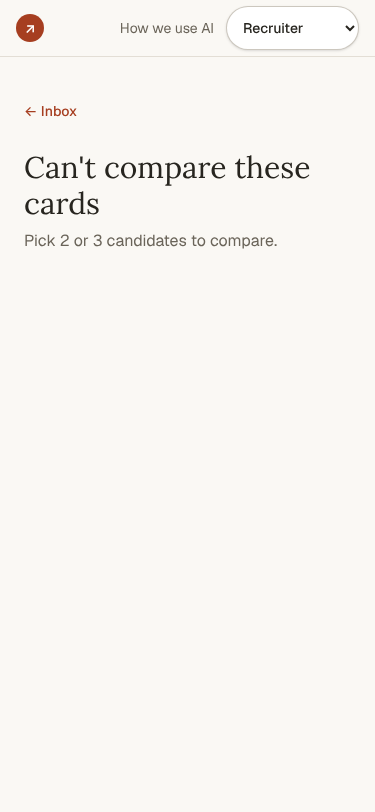
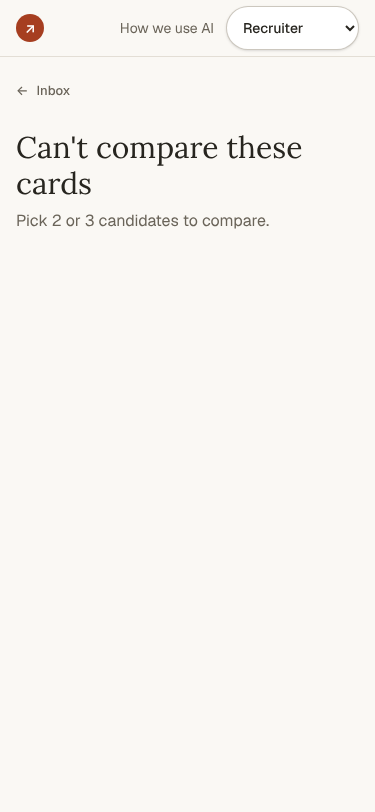
Platform polish round 3: one back link, demo panel, synthetic peers never shown as yours
- BackLink component used on card, compare, impact, AI health, gold
- Candidate home lists only the candidate's own cards (peers and the impact cohort are recruiter-side)
- Demo shortcuts panel: segmented role switch, jump list, paired seed/reset
- Seed page, compare, AI health, gold: same eyebrow, heading and button scale
- Inbox rows slightly denser
- New e2e: candidate home lists only your card; inbox shows Maya first with labelled peers; quote jump banner; Copilot trigger sits above the answers

Claude-Session: https://claude.ai/code/session_0154mYPVXzcvbqu6pAjhr8C7

Changed region(s): [[0.0293, 0.0924, 0.8213, 0.3079], [0.0587, 0.1232, 0.088, 0.1539], [0.0293, 0.1539, 0.0587, 0.1847]]

diff --git a/components/demo/DemoPanel.tsx b/components/demo/DemoPanel.tsx
@@ -47,30 +47,38 @@ export function DemoPanel() {
   };
 
   return (
-    <div role="dialog" aria-label="Demo shortcuts" data-testid="demo-panel" className="fixed right-4 top-24 z-[200] w-72 max-w-[calc(100vw-2rem)] rounded-xl border bg-card p-4 text-sm shadow-card">
-      <div className="flex items-center justify-between">
+    <div role="dialog" aria-label="Demo shortcuts" data-testid="demo-panel" className="tp-pop fixed right-4 top-20 z-[200] w-80 max-w-[calc(100vw-2rem)] rounded-xl border bg-card text-sm shadow-lg">
+      <div className="flex items-center justify-between border-b border-border/70 py-2 pl-4 pr-2">
         <p className="font-semibold">Demo shortcuts</p>
-        <button type="button" aria-label="Close demo shortcuts" onClick={() => setOpen(false)} className="min-h-8 px-2 text-muted-foreground">✕</button>
+        <button type="button" aria-label="Close demo shortcuts" onClick={() => setOpen(false)} className="inline-flex size-9 items-center justify-center rounded-md text-muted-foreground hover:bg-muted hover:text-foreground">✕</button>
       </div>
-      <p className="mt-3 text-xs font-medium text-muted-foreground">Role</p>
-      <div className="mt-1 flex flex-wrap gap-1.5">
-        {ROLES.map((r) => (
-          <button key={r} type="button" onClick={() => setRole(r)} className="min-h-8 rounded-md border px-2 capitalize" data-testid={`demo-role-${r}`}>{r}</button>
-        ))}
+      <div className="space-y-4 p-4">
+        <div>
+          <p className="text-[11px] font-semibold uppercase tracking-wider text-muted-foreground">Role</p>
+          <div className="mt-1.5 grid grid-cols-4 gap-1 rounded-lg bg-muted p-1">
+            {ROLES.map((r) => (
+              <button key={r} type="button" onClick={() => setRole(r)} className="min-h-8 rounded-md px-1 text-xs font-medium capitalize text-muted-foreground transition-colors hover:bg-card hover:text-foreground" data-testid={`demo-role-${r}`}>{r}</button>
+            ))}
+          </div>
+        </div>
+        <div>
+          <p className="text-[11px] font-semibold uppercase tracking-wider text-muted-foreground">Jump to</p>
+          <ul className="mt-1 -mx-2">
+            {DEMO_JUMPS.map((j) => (
+              <li key={j.href}>
+                <Link href={j.href} onClick={() => setOpen(false)} className="flex min-h-9 items-center justify-between rounded-md px-2 transition-colors hover:bg-muted">
+                  {j.label}<span aria-hidden className="text-muted-foreground">→</span>
+                </Link>
+              </li>
+            ))}
+          </ul>
+        </div>
+        <div className="flex gap-2 border-t border-border/70 pt-3">
+          <button type="button" className="min-h-9 flex-1 rounded-lg border bg-card px-2 text-xs font-medium shadow-xs hover:bg-muted" data-testid="demo-seed" onClick={() => { seedDemo(store()); setMsg("Demo data loaded"); }}>Load demo seed</button>
+          <button type="button" className="min-h-9 flex-1 rounded-lg border border-destructive/40 px-2 text-xs font-medium text-destructive hover:bg-destructive/5" data-testid="demo-reset" onClick={async () => { await resetThisBrowser(); setMsg("Reset done, seed reloaded"); router.refresh(); }}>Reset everything</button>
+        </div>
+        {msg && <p role="status" className="text-xs" data-testid="demo-msg">{msg}</p>}
       </div>
-      <p className="mt-3 text-xs font-medium text-muted-foreground">Jump to</p>
-      <ul className="mt-1 space-y-1">
-        {DEMO_JUMPS.map((j) => (
-          <li key={j.href}>
-            <Link href={j.href} onClick={() => setOpen(false)} className="underline underline-offset-2">{j.label}</Link>
-          </li>
-        ))}
-      </ul>
-      <div className="mt-3 flex flex-wrap gap-2">
-        <button type="button" className="min-h-8 rounded-md border px-2" data-testid="demo-seed" onClick={() => { seedDemo(store()); setMsg("Demo data loaded"); }}>Load demo seed</button>
-        <button type="button" className="min-h-8 rounded-md border border-destructive px-2 text-destructive" data-testid="demo-reset" onClick={async () => { await resetThisBrowser(); setMsg("Reset done, seed reloaded"); router.refresh(); }}>Reset everything</button>
-      </div>
-      {msg && <p role="status" className="mt-2 text-xs" data-testid="demo-msg">{msg}</p>}
     </div>
   );
 }

diff --git a/components/recruiter/Inbox.tsx b/components/recruiter/Inbox.tsx
@@ -165,7 +165,7 @@ export function Inbox() {
       <SecondLookQueue challengeId={challenge?.id} nameFor={(id) => rows.find((r) => r.attemptId === id)?.displayName} />
 
       <div className="mt-6 overflow-hidden rounded-xl border bg-card shadow-card">
-        <div className="flex flex-wrap items-center justify-between gap-x-6 gap-y-3 border-b border-border/70 px-4 py-3">
+        <div className="flex flex-wrap items-center justify-between gap-x-6 gap-y-3 border-b border-border/70 px-4 py-2.5">
           <fieldset className="grid w-full grid-cols-2 gap-2 text-sm sm:flex sm:w-auto sm:flex-wrap sm:items-center" aria-label="Filters">
             <label className="sr-only" htmlFor="filter-skill">Skill</label>
             <select
@@ -254,7 +254,7 @@ export function Inbox() {
                   className={cn("group border-b border-border/60 transition-colors last:border-0 hover:bg-muted/40", i === sel && "bg-accent/40 hover:bg-accent/40", r.withdrawn && "text-muted-foreground")}
                   data-testid={`row-${r.attemptId}`}
                 >
-                  <td className="py-3 pl-4 pr-2">
+                  <td className="py-2.5 pl-4 pr-2">
                     {!r.withdrawn && (
                       <input
                         type="checkbox"
@@ -270,7 +270,7 @@ export function Inbox() {
                       />
                     )}
                   </td>
-                  <td className="px-3 py-3">
+                  <td className="px-3 py-2.5">
                     <div className="flex items-center gap-2">
                       <Link href={`/recruiter/card/${r.attemptId}?challenge=${challenge?.id}`} className="whitespace-nowrap font-medium underline-offset-2 hover:underline">
                         {r.displayName}
@@ -284,7 +284,7 @@ export function Inbox() {
                       </span>
                     )}
                   </td>
-                  <td className="px-3 py-3">
+                  <td className="px-3 py-2.5">
                     <div className="flex flex-wrap gap-x-3 gap-y-1.5">
                       {r.withdrawn ? (
                         <span>Candidate withdrew this card</span>
@@ -299,15 +299,15 @@ export function Inbox() {
                       )}
                     </div>
                   </td>
-                  <td className="whitespace-nowrap px-3 py-3 text-muted-foreground">{r.witnessConfirmed ? <span className="text-foreground"><span aria-hidden>✓ </span>Confirmed</span> : "None yet"}</td>
-                  <td className="px-3 py-3">
+                  <td className="whitespace-nowrap px-3 py-2.5 text-muted-foreground">{r.witnessConfirmed ? <span className="text-foreground"><span aria-hidden>✓ </span>Confirmed</span> : "None yet"}</td>
+                  <td className="px-3 py-2.5">
                     <span className={cn("inline-flex items-center gap-1.5 whitespace-nowrap text-xs font-medium", r.status === "new" ? "text-muted-foreground" : "text-foreground")}>
                       <span aria-hidden className={cn("size-1.5 rounded-full", r.status === "shortlist" ? "bg-primary" : r.status === "new" ? "bg-input" : "bg-foreground/50")} />
                       {STATUS_LABEL[r.status]}
                     </span>
                   </td>
-                  <td className="whitespace-nowrap px-3 py-3 tabular-nums text-muted-foreground">{new Date(r.date).toLocaleDateString("en-CA")}</td>
-                  <td className="py-3 pl-3 pr-4 text-right">
+                  <td className="whitespace-nowrap px-3 py-2.5 tabular-nums text-muted-foreground">{new Date(r.date).toLocaleDateString("en-CA")}</td>
+                  <td className="py-2.5 pl-3 pr-4 text-right">
                     {!r.withdrawn && r.status !== "shortlist" && (
                       <Button size="sm" variant="ghost" className="border border-transparent group-hover:border-border group-hover:bg-card" onClick={() => shortlist(r)}>
                         Shortlist

diff --git a/components/recruiter/Compare.tsx b/components/recruiter/Compare.tsx
@@ -1,11 +1,11 @@
 "use client";
 
 import Link from "next/link";
+import { BackLink } from "@/components/ui/back-link";
 import { useSearchParams } from "next/navigation";
 import { useEffect, useState } from "react";
 import { LevelBadge, skillName } from "@/components/card/CapabilityCard";
 import { Badge } from "@/components/ui/badge";
-import { Button } from "@/components/ui/button";
 import { compareFor, type Comparison } from "@/lib/card/compare";
 import { getChallenge } from "@/lib/challenge/challenge";
 import type { SkillSlug } from "@/lib/engine/skills";
@@ -39,15 +39,11 @@ export function Compare() {
     };
   }, [challengeId, idsKey]);
 
-  const back = (
-    <Button asChild variant="link" className="px-0">
-      <Link href={`/recruiter?challenge=${challengeId}`}>← Inbox</Link>
-    </Button>
-  );
+  const back = <BackLink href={`/recruiter?challenge=${challengeId}`}>Inbox</BackLink>;
   if (!result) return <div className="p-8" aria-busy="true">Loading…</div>;
   if (!result.ok)
     return (
-      <main className="mx-auto max-w-3xl px-6 py-8" data-testid="compare-error">
+      <main className="mx-auto max-w-3xl px-4 pb-12 pt-3 sm:px-10" data-testid="compare-error">
         {back}
         <h1 className="mt-4 font-display text-3xl">Can&apos;t compare these cards</h1>
         <p className="mt-2 text-muted-foreground">{result.reason}</p>
@@ -59,10 +55,10 @@ export function Compare() {
   const grid = { gridTemplateColumns: `minmax(6rem, 9rem) repeat(${columns.length}, minmax(13rem, 1fr))`, minWidth: `${6 + columns.length * 13}rem` };
 
   return (
-    <main className="mx-auto max-w-7xl px-4 py-8 sm:px-10" data-testid="compare">
+    <main className="mx-auto max-w-7xl px-4 pb-12 pt-3 sm:px-10" data-testid="compare">
       {back}
-      <p className="mt-2 text-xs font-medium uppercase tracking-[0.18em] text-primary">Compare</p>
-      <h1 className="mt-1 font-display text-3xl sm:text-4xl">{columns.length} Capability Cards, side by side</h1>
+      <p className="mt-3 text-[11px] font-semibold uppercase tracking-[0.16em] text-primary">Compare</p>
+      <h1 className="mt-2 font-display text-3xl tracking-tight">{columns.length} Capability Cards, side by side</h1>
       <p className="mt-2 max-w-2xl text-sm text-muted-foreground">
         Columns follow the order you picked. There is no overall score and no ranking. Read the evidence, then decide on each card.
       </p>

diff --git a/components/admin/AiHealth.tsx b/components/admin/AiHealth.tsx
@@ -1,6 +1,6 @@
 "use client";
 
-import Link from "next/link";
+import { BackLink } from "@/components/ui/back-link";
 import { useEffect, useState } from "react";
 import { Button } from "@/components/ui/button";
 import { fixturesOf, PROMPTS } from "@/lib/ai/prompts/registry";
@@ -29,17 +29,17 @@ export function AiHealth() {
   const recent = (calls ?? []).slice(-8).reverse();
 
   return (
-    <main className="mx-auto max-w-5xl px-6 py-8 sm:px-10" data-testid="ai-health">
-      <Link href="/admin" className="text-sm underline">← Admin</Link>
-      <p className="mt-4 text-xs font-medium uppercase tracking-[0.18em] text-primary">AI health</p>
-      <h1 className="mt-1 font-display text-3xl">AI calls</h1>
+    <main className="mx-auto max-w-5xl px-4 pb-12 pt-3 sm:px-10" data-testid="ai-health">
+      <BackLink href="/admin">Admin</BackLink>
+      <p className="mt-3 text-[11px] font-semibold uppercase tracking-[0.16em] text-primary">AI health</p>
+      <h1 className="mt-2 font-display text-3xl tracking-tight">AI calls</h1>
       <p className="mt-1 text-sm text-muted-foreground">
         Mode <span className="font-mono font-medium" data-testid="ai-mode">{aiMode()}</span>. Off runs the local rules, cached replays recorded answers, live calls Claude from the server. Every call is
         validated against its schema and guards; a failure falls back to the template.
       </p>
       <div className="mt-4 flex flex-wrap gap-2">
-        <Button onClick={selfCheck} data-testid="ai-selfcheck">Run self-check</Button>
-        <Button variant="outline" onClick={() => (clearAiCalls(), reload())}>Clear log</Button>
+        <Button size="sm" onClick={selfCheck} data-testid="ai-selfcheck">Run self-check</Button>
+        <Button size="sm" variant="outline" onClick={() => (clearAiCalls(), reload())}>Clear log</Button>
       </div>
 
       <section tabIndex={0} className="relative mt-6 overflow-x-auto rounded-xl border bg-card shadow-card" aria-labelledby="svc-h">

diff --git a/app/demo/seed/page.tsx b/app/demo/seed/page.tsx
@@ -11,14 +11,20 @@ export default function SeedPage() {
   const [list, setList] = useState<Challenge[]>([]);
   useEffect(() => setList(seedDemo(store())), []);
   return (
-    <main className="mx-auto max-w-xl space-y-4 px-4 py-10" data-testid="seeded">
-      <h1 className="text-2xl font-semibold">Demo data loaded</h1>
-      <ul className="space-y-2">
+    <main className="mx-auto max-w-xl space-y-5 px-4 py-10" data-testid="seeded">
+      <div>
+        <p className="text-[11px] font-semibold uppercase tracking-[0.16em] text-primary">Demo</p>
+        <h1 className="mt-2 font-display text-3xl tracking-tight">Demo data loaded</h1>
+        <p className="mt-1 text-sm text-muted-foreground">Two fictional employers, Maya&apos;s card and a few labelled synthetic candidates, stored in this browser.</p>
+      </div>
+      <ul className="divide-y divide-border/70 rounded-xl border bg-card shadow-card">
         {list.map((c) => (
-          <li key={c.id} className="rounded-xl border p-3">
-            <p className="font-medium">{c.company.name}</p>
-            <p className="text-sm opacity-80">{c.title} · {c.jobCode}</p>
-            <Link className="text-sm underline" href={`/c/${c.publicSlug}`} data-testid={`play-${c.id}`}>
+          <li key={c.id} className="flex items-center justify-between gap-3 px-4 py-3">
+            <div className="min-w-0">
+              <p className="font-medium">{c.company.name}</p>
+              <p className="text-sm text-muted-foreground">{c.title} · {c.jobCode}</p>
+            </div>
+            <Link className="shrink-0 text-sm font-medium underline underline-offset-2" href={`/c/${c.publicSlug}`} data-testid={`play-${c.id}`}>
               Candidate link
             </Link>
           </li>

diff --git a/components/admin/ImpactDashboard.tsx b/components/admin/ImpactDashboard.tsx
@@ -1,7 +1,7 @@
 "use client";
 
 import { useEffect, useMemo, useState } from "react";
-import Link from "next/link";
+import { BackLink } from "@/components/ui/back-link";
 import { Button } from "@/components/ui/button";
 import { store } from "@/lib/store/store";
 import { funnelByChallenge, impactReport, type Source } from "@/lib/impact/metrics";
@@ -95,7 +95,7 @@ export function ImpactDashboard() {
   const ai = telemetryImpact(calls);
   if (!report) return <main className="mx-auto max-w-6xl p-8" aria-busy="true">Loading local impact report…</main>;
   return <main className="mx-auto max-w-6xl px-4 pb-12 pt-3 sm:px-10" data-testid="impact-dashboard">
-    <Button asChild variant="ghost" size="sm" className="-ml-3.5"><Link href="/admin">← Employer home</Link></Button>
+    <BackLink href="/admin">Employer home</BackLink>
     <header className="mt-2 grid gap-4 border-b border-border/70 pb-6 md:grid-cols-[1fr_auto]">
       <div><p className="text-[11px] font-semibold uppercase tracking-[0.16em] text-primary">Impact observatory</p><h1 className="mt-2 font-display text-3xl tracking-tight sm:text-4xl">Evidence of impact.</h1><p className="mt-2 max-w-xl text-sm text-muted-foreground">See who gets a chance to show their capability, where review happens, and what needs a closer look.</p></div>
       <div className="self-end"><Button variant="outline" size="sm" onClick={() => { try { seedImpactDemo(store()); setSource("demo"); setEmployer(""); refresh(); setMessage("Fictional cohort loaded: 200 candidates, 3 employers. Existing local data was preserved."); setError(""); } catch { setError("The demo cohort could not be saved. Check browser storage and try again."); } }}>Load 200 fictional candidates</Button></div>

diff --git a/components/admin/GoldScoring.tsx b/components/admin/GoldScoring.tsx
@@ -1,6 +1,6 @@
 "use client";
 
-import Link from "next/link";
+import { BackLink } from "@/components/ui/back-link";
 import { useEffect, useMemo, useState } from "react";
 import { Button } from "@/components/ui/button";
 import gold from "@/lib/ai/evals/gold/answers.json";
@@ -82,10 +82,10 @@ export function GoldScoring() {
 
   const a = answers[i];
   return (
-    <main className="mx-auto max-w-3xl px-4 py-8 sm:px-10" data-testid="gold-scoring">
-      <Link href="/admin" className="text-sm underline">← Admin</Link>
-      <p className="mt-4 text-xs font-medium uppercase tracking-[0.18em] text-primary">Gold set</p>
-      <h1 className="mt-1 font-display text-3xl">Score answers by hand</h1>
+    <main className="mx-auto max-w-3xl px-4 pb-12 pt-3 sm:px-10" data-testid="gold-scoring">
+      <BackLink href="/admin">Admin</BackLink>
+      <p className="mt-3 text-[11px] font-semibold uppercase tracking-[0.16em] text-primary">Gold set</p>
+      <h1 className="mt-2 font-display text-3xl tracking-tight">Score answers by hand</h1>
       <p className="mt-1 text-sm text-muted-foreground">
         These {answers.length} answers check the AI. You score each one for the named skill only. Ignore grammar, spelling and accent. Don&apos;t look at the other person&apos;s scores.
       </p>
@@ -93,7 +93,7 @@ export function GoldScoring() {
       {!rater ? (
         <div className="mt-6 flex gap-2">
           {RATERS.map((r) => (
-            <Button key={r} onClick={() => setRater(r)} data-testid={`rater-${r}`}>
+            <Button key={r} variant="outline" onClick={() => setRater(r)} data-testid={`rater-${r}`}>
               I&apos;m {r === "div" ? "Div" : "Haris"}
             </Button>
           ))}

diff --git a/tests/e2e/recruiter.spec.ts b/tests/e2e/recruiter.spec.ts
@@ -128,3 +128,21 @@ test("transcript-first hides video until revealed (E6.2)", async ({ page }) => {
   await page.getByTestId("tab-cp2").click();
   await expect(page.getByRole("button", { name: "Reveal video" })).toBeVisible();
 });
+
+test("demo inbox reads like a real list: Maya first, synthetic peers labelled, quote jump is visible on the card", async ({ page }) => {
+  await seed(page);
+  await page.goto("/recruiter");
+  const rows = page.locator('[data-testid^="row-"]');
+  await expect(rows.first()).toHaveAttribute("data-testid", `row-${MAYA}`);
+  expect(await rows.count()).toBeGreaterThan(4);
+  await expect(page.getByTestId("row-att_demo_peer_01")).toContainText("Synthetic");
+  await expect(page.getByTestId(`row-${MAYA}`)).not.toContainText("Synthetic");
+
+  await page.goto(CARD);
+  await page.getByTestId("jump-prioritization").click();
+  await expect(page.getByTestId("jump-banner")).toContainText("Prioritization");
+  // The Copilot trigger sits in the toolbar, not over the answer.
+  const ask = await page.getByTestId("copilot-open").boundingBox();
+  const answers = await page.getByTestId("answers").boundingBox();
+  expect(ask!.y + ask!.height).toBeLessThanOrEqual(answers!.y);
+});

diff --git a/components/recruiter/RecruiterCard.tsx b/components/recruiter/RecruiterCard.tsx
@@ -1,7 +1,7 @@
 "use client";
 
 import { PageSkeleton } from "@/components/ui/skeleton";
-import Link from "next/link";
+import { BackLink } from "@/components/ui/back-link";
 import { useSearchParams } from "next/navigation";
 import { AddonRequest } from "@/components/addon/AddonRequest";
 import type { SkillSlug } from "@/lib/engine/skills";
@@ -41,11 +41,7 @@ export function RecruiterCard({ attemptId }: { attemptId: string }) {
   useReviewTimer(attemptId, challengeId, !!view && view.status !== "withdrawn");
 
   if (view === undefined) return <PageSkeleton />;
-  const back = (
-    <Button asChild variant="ghost" size="sm" className="-ml-3.5">
-      <Link href={`/recruiter?challenge=${challengeId}`}>← Inbox</Link>
-    </Button>
-  );
+  const back = <BackLink href={`/recruiter?challenge=${challengeId}`}>Inbox</BackLink>;
   if (view === null) return <main className="mx-auto max-w-3xl p-6">{back}<p>This card isn&apos;t shared with this challenge.</p></main>;
   if (view.status === "withdrawn")
     return (

diff --git a/components/site/YourCards.tsx b/components/site/YourCards.tsx
@@ -4,12 +4,15 @@ import Link from "next/link";
 import { useEffect, useState } from "react";
 import type { Card } from "@/lib/card/types";
 import { store } from "@/lib/store/store";
+import { isPeer } from "@/lib/demo/peers";
+import { DEMO_PREFIX } from "@/lib/impact/metrics";
 
 // Candidate home: the cards finished on this device, newest first. Hidden when there are none.
 export function YourCards() {
   const [cards, setCards] = useState<Card[]>([]);
   useEffect(() => {
-    setCards(store().listCards().sort((a, b) => b.finishedAt.localeCompare(a.finishedAt)).slice(0, 3));
+    // Synthetic demo candidates are recruiter-side scenery, never "your" cards.
+    setCards(store().listCards().filter((c) => !isPeer(c.attemptId) && !c.attemptId.startsWith(DEMO_PREFIX)).sort((a, b) => b.finishedAt.localeCompare(a.finishedAt)).slice(0, 3));
   }, []);
   if (!cards.length) return null;
   return (

diff --git a/tests/e2e/candidate.spec.ts b/tests/e2e/candidate.spec.ts
@@ -24,3 +24,13 @@ test("starting records consent; the improvement opt-in stays off unless ticked (
   await page.getByRole("button", { name: "I agree, start" }).click();
   expect(await profile(page)).toMatchObject({ consentedToRecording: true, improvementOptIn: false });
 });
+
+test("candidate home: one primary action, your own card listed, synthetic inbox peers never shown as yours", async ({ page }) => {
+  await page.goto("/demo/seed");
+  await expect(page.getByTestId("seeded")).toBeVisible();
+  await page.goto("/candidate");
+  await expect(page.getByTestId("play-game")).toBeVisible();
+  const yours = page.getByTestId("your-cards");
+  await expect(yours.getByRole("link")).toHaveCount(1);
+  await expect(yours.getByRole("link")).toHaveAttribute("href", "/results/att_demo_maya");
+});

diff --git a/components/ui/back-link.tsx b/components/ui/back-link.tsx
@@ -1,0 +1,13 @@
+import Link from "next/link";
+import { Button } from "@/components/ui/button";
+
+/** One back link style for every sub-page: quiet, aligned with the content edge. */
+export function BackLink({ href, children }: { href: string; children: React.ReactNode }) {
+  return (
+    <Button asChild variant="ghost" size="sm" className="-ml-3.5">
+      <Link href={href}>
+        <span aria-hidden>←</span> {children}
+      </Link>
+    </Button>
+  );
+}
